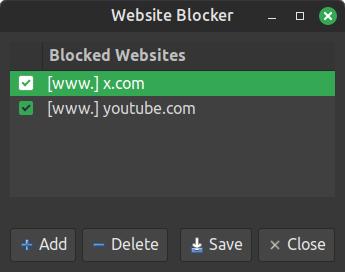
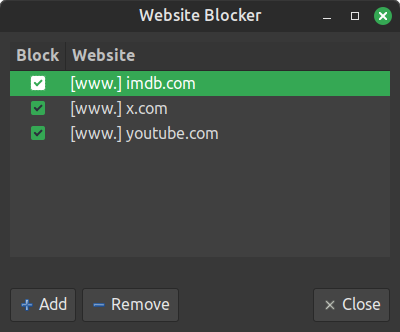
Add install/uninstall scripts, update README and screenshot

diff --git a/install.py b/install.py
@@ -1,0 +1,50 @@
+#!/usr/bin/env python3
+import os
+import shutil
+import subprocess
+import stat
+
+INSTALL_DIR = os.path.expanduser("~/.local/share/website-blocker")
+APPS_DIR = os.path.expanduser("~/.local/share/applications")
+DESKTOP_FILE = os.path.join(APPS_DIR, "website-blocker.desktop")
+LAUNCH_SH = os.path.join(INSTALL_DIR, "launch.sh")
+SCRIPT_DIR = os.path.dirname(os.path.abspath(__file__))
+
+DESKTOP_ENTRY = """\
+[Desktop Entry]
+Name=Website Blocker
+Comment=Block websites by editing /etc/hosts
+Exec={launch}
+Icon=network-error
+Terminal=false
+Type=Application
+Categories=Network;Utility;
+"""
+
+LAUNCH_SCRIPT = """\
+#!/bin/bash
+pkexec env DISPLAY="$DISPLAY" XAUTHORITY="$XAUTHORITY" python3 {app}
+"""
+
+def main():
+    os.makedirs(INSTALL_DIR, exist_ok=True)
+    os.makedirs(APPS_DIR, exist_ok=True)
+
+    shutil.copy2(os.path.join(SCRIPT_DIR, "website_blocker.py"), INSTALL_DIR)
+    print(f"Copied website_blocker.py -> {INSTALL_DIR}")
+
+    app_path = os.path.join(INSTALL_DIR, "website_blocker.py")
+    with open(LAUNCH_SH, "w") as f:
+        f.write(LAUNCH_SCRIPT.format(app=app_path))
+    os.chmod(LAUNCH_SH, os.stat(LAUNCH_SH).st_mode | stat.S_IXUSR | stat.S_IXGRP | stat.S_IXOTH)
+    print(f"Created {LAUNCH_SH}")
+
+    with open(DESKTOP_FILE, "w") as f:
+        f.write(DESKTOP_ENTRY.format(launch=LAUNCH_SH))
+    print(f"Created {DESKTOP_FILE}")
+
+    subprocess.run(["update-desktop-database", APPS_DIR], check=False)
+    print("Done. Website Blocker installed.")
+
+if __name__ == "__main__":
+    main()

diff --git a/uninstall.py b/uninstall.py
@@ -1,0 +1,30 @@
+#!/usr/bin/env python3
+import os
+import shutil
+import subprocess
+
+INSTALL_DIR = os.path.expanduser("~/.local/share/website-blocker")
+DESKTOP_FILE = os.path.expanduser("~/.local/share/applications/website-blocker.desktop")
+APPS_DIR = os.path.expanduser("~/.local/share/applications")
+
+def main():
+    removed = False
+
+    if os.path.isdir(INSTALL_DIR):
+        shutil.rmtree(INSTALL_DIR)
+        print(f"Removed {INSTALL_DIR}")
+        removed = True
+
+    if os.path.isfile(DESKTOP_FILE):
+        os.remove(DESKTOP_FILE)
+        print(f"Removed {DESKTOP_FILE}")
+        removed = True
+
+    if removed:
+        subprocess.run(["update-desktop-database", APPS_DIR], check=False)
+        print("Done. Website Blocker uninstalled.")
+    else:
+        print("Nothing to uninstall.")
+
+if __name__ == "__main__":
+    main()

diff --git a/README.md b/README.md
@@ -24,14 +24,31 @@ Install PyGObject (GTK3 bindings) on Ubuntu/Linux Mint:
 sudo apt install python3-gi
 ```
 
+## Install (Optional)
+
+```sh
+python3 install.py
+```
+
+Installs to `~/.local/share/website-blocker/` and adds a launcher to your application menu. No root required.
+
+## Uninstall
+
+```sh
+python3 uninstall.py
+```
+
+Removes from application menu and deletes installed files. Does not remove blocked sites from `/etc/hosts` — you must edit it manually to unblock those.
+
 ## Usage
 
-```
-# Normal Start (prompts for root password on save)
+```sh
 python3 website_blocker.py
-# Start with root access (no root password prompt on save)
-sudo python3 website_blocker.py
 ```
+
+Or launch from your application menu after installing.
+
+Saving to `/etc/hosts` requires root — a password prompt will appear on each save.
 
 ## How it works
 
@@ -48,7 +65,7 @@ To allow temporary unblocking, disabled entries are commented out with `#`.
 
 ## Limitations
 
-- For blocking to work in a browser, its DNS cache must be cleared after saving changes.
+- For blocking to work in a browser, its DNS cache must be cleared after changes.
 - Blocks access at the system level — a user can edit `/etc/hosts` directly to bypass it.
 - Browser extensions, VPNs, proxy or private DNS settings can bypass hosts-based blocking.
 - Only blocks the exact domains added. Subdomains (e.g. `sub.example.com`) are not blocked unless added explicitly.
